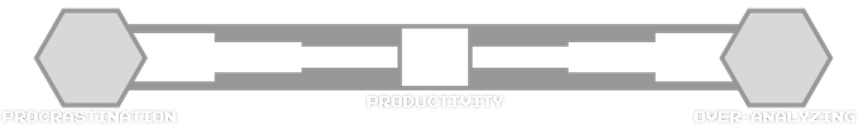
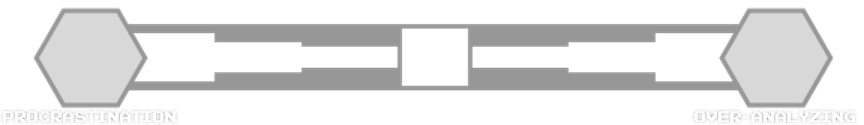
boop

diff --git a/src/js/components/FocusBar.js b/src/js/components/FocusBar.js
@@ -7,54 +7,60 @@ class FocusBar {
         this.width = width
         this.height = height
         this.value = 0
+        this.productivity = 100
         this.p = (this.width - 4) / 100
-
-        this.draw()
+        this.p2 = (this.width - 4) / -50
 
         scene.add.existing(this.bar)
-        scene.add.image(this.width / 2, this.y + (this.height / 2) + 5, 'bar')
+        scene.add.image(this.x, this.y + (this.height / 2) + 5, image)
+        this.label = scene.add.text(this.x, this.y + this.height + 32, `Productivity: ${this.productivity}`, { align: 'center' }).setOrigin(0.5)
+
+        this.draw()
     }
 
     less(amount) {
         this.value -= amount
 
-        if (this.value < -50) {
-            this.value = -50
-        }
-
-        this.draw()
-
-        return (this.value === -50)
+        return this.updateValue()
     }
 
     more(amount) {
         this.value += amount
 
+        return this.updateValue()
+    }
+
+    updateValue() {
         if (this.value > 50) {
             this.value = 50
+        } else if (this.value < -50) {
+            this.value = -50
         }
-
+        this.productivity = (50 - Math.abs(this.value)) * 2
         this.draw()
-
-        return (this.value === 50)
+        return this.value
     }
 
     draw() {
         this.bar.clear()
 
         //  BG
-        const hue = (360 - (Math.abs(this.value) - 68)) / 360
+        this.bar.fillStyle(0xdedede)
+        this.bar.fillRect(this.x - (this.width / 2), this.y, this.width, this.height)
+
+        const hue = (360 - (Math.abs(this.value) - 70)) / 360
         this.bar.fillStyle(Phaser.Display.Color.HSLToColor(hue, 1, 0.5).color)
 
-        this.bar.fillRect(this.x, this.y, this.width, this.height)
-
-        this.bar.fillStyle(0xffffff)
-
         const d = Math.floor(this.p * (this.value + 50))
-        this.bar.lineStyle(8, 0xffffff)
-        this.bar.lineBetween(d, this.y, d, this.height + 10)
-
+        const d2 = Math.floor(this.p2 * this.value)
         // this.bar.fillRect(this.x + 2, this.y + 2, d, this.height - 4)
+        this.bar.fillRect(this.x - (d2 / 2), this.y + 2, d2 / 2, this.height - 4)
+
+        this.bar.lineStyle(7, 0xbbbbbb)
+        this.bar.lineBetween(this.x - (d2 / 2), this.y - 24, this.x - (d2 / 2), this.y + this.height + 24)
+        this.bar.lineStyle(1, 0xdd0000)
+        this.bar.lineBetween(this.x - (d2 / 2), this.y - 12, this.x - (d2 / 2), this.y + this.height + 12)
+        this.label.text = `Productivity: ${this.productivity.toFixed(3)}`
     }
 }
 

diff --git a/src/js/index.js b/src/js/index.js
@@ -16,8 +16,15 @@ const game = new Phaser.Game(config)
 let fb
 let acceleration = 0
 let velocity = 0
-let drag = 0.87
 let focus = 0
+let momentum = 0
+let label
+let devText = [
+    `Focus: ${focus}`,
+    `Acceleration: ${acceleration}`,
+    `Velocity: ${velocity}`,
+    `Momentum: ${momentum}`
+]
 
 let keyQ
 let keyE
@@ -27,44 +34,54 @@ function preload() {
 }
 
 function create() {
-    fb = new FocusBar(this, 0, 100, game.scale.width, 58, 'bar')
+    fb = new FocusBar(this, game.scale.width / 2, 100, 750, 58, 'bar')
     fb.value = focus
+    label = this.add.text(0, game.scale.height, devText, { align: 'left' }).setOrigin(0, 1)
     keyQ = this.input.keyboard.addKey(Phaser.Input.Keyboard.KeyCodes.Q)
     keyE = this.input.keyboard.addKey(Phaser.Input.Keyboard.KeyCodes.E)
 }
 
 function update() {
     if (keyQ.isDown) {
-        acceleration -= 0.02
+        if (acceleration < 0) {
+            acceleration -= 0.005
+        } else {
+            momentum = acceleration
+            acceleration = -0.02
+        }
     } else if (keyE.isDown) {
-        acceleration += 0.02
+        if (acceleration > 0) {
+            acceleration += 0.005
+        } else {
+            momentum = acceleration
+            acceleration = 0.02
+        }
     }
     updateFocus()
 }
 
-let momentum = 0
-
 function updateFocus() {
-    if (acceleration < -0.5) {
-        acceleration = -0.5
+    if (acceleration < -0.4) {
+        acceleration = -0.4
     } else if (acceleration > 0.4) {
         acceleration = 0.4
     }
     velocity += acceleration
-    velocity *= drag
     if (velocity < -2) {
         velocity = -2
     } else if (velocity > 2) {
         velocity = 2
-    }
-    if (focus < 0) {
-        momentum = velocity + (-0.5 + Math.abs(focus / 50))
-    } else {
-        momentum = velocity + (0.5 - (focus / 50))
     }
     if (velocity >= 0) {
         focus = fb.more(Math.abs(velocity))
     } else {
         focus = fb.less(Math.abs(velocity))
     }
+    devText = [
+        `Focus: ${focus.toFixed(4)}`,
+        `Acceleration: ${acceleration.toFixed(4)}`,
+        `Velocity: ${velocity.toFixed(4)}`,
+        `Momentum: ${momentum.toFixed(4)}`
+    ]
+    label.setText(devText)
 }
